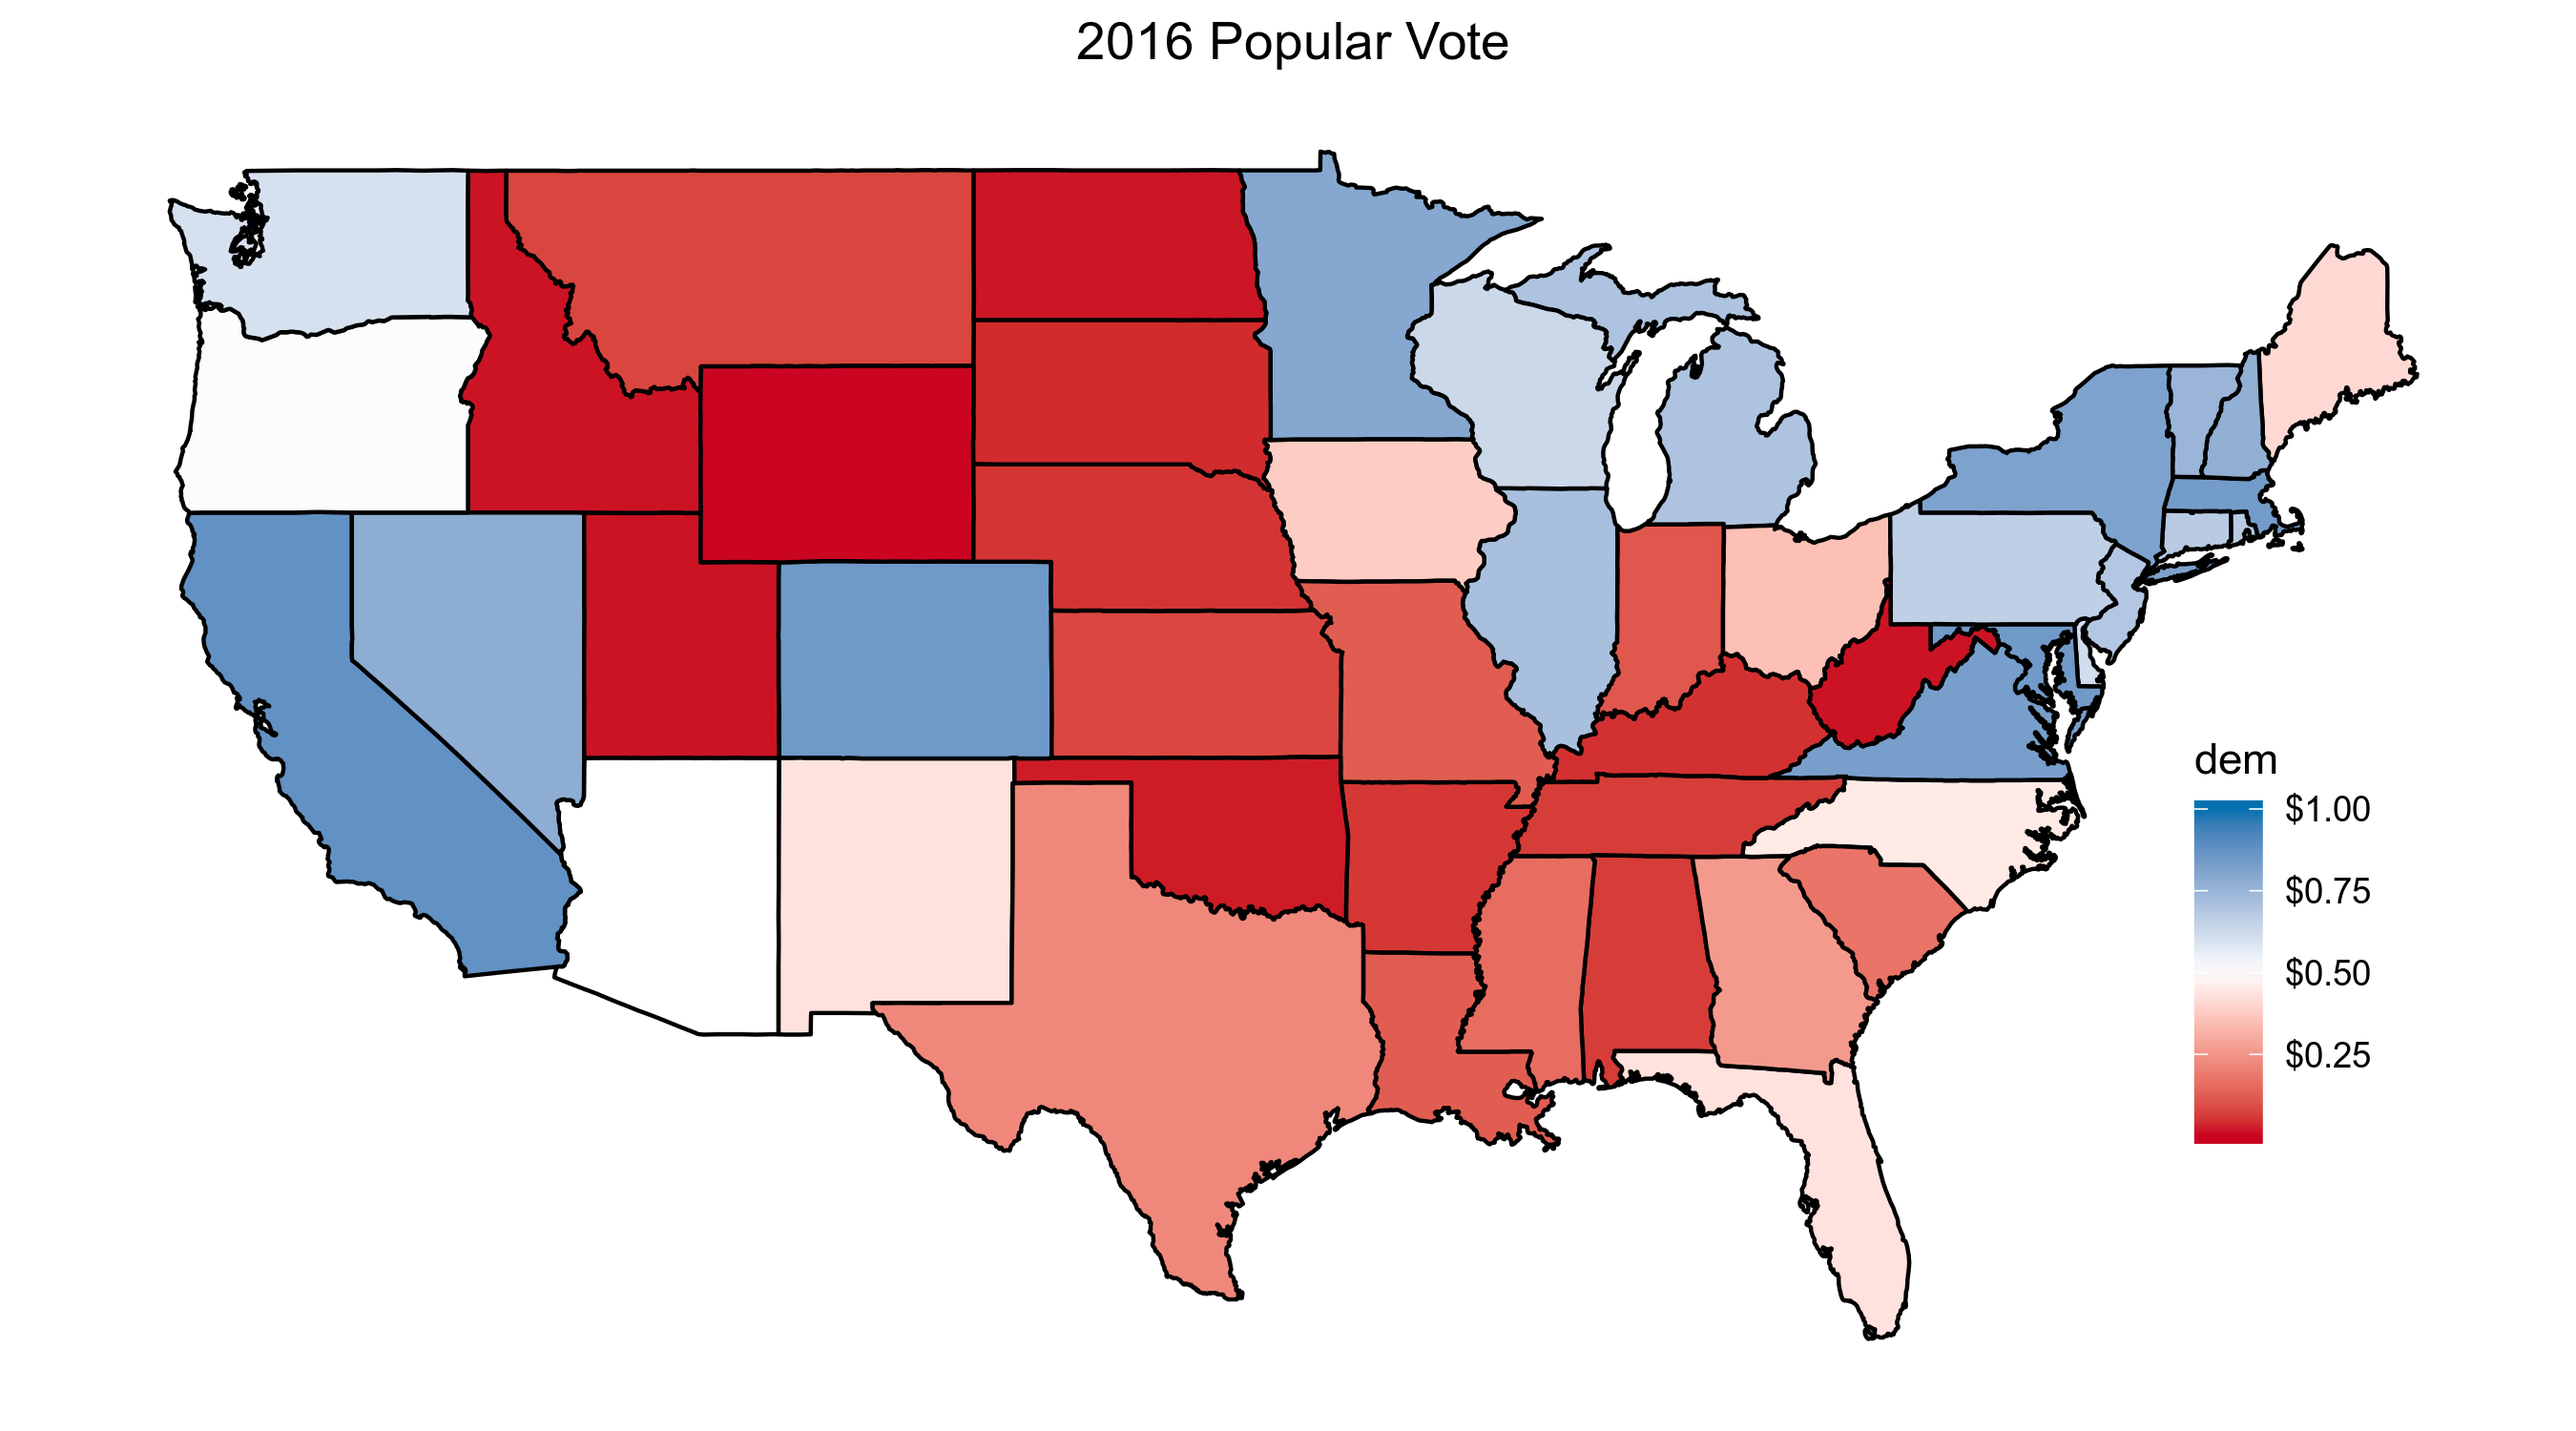
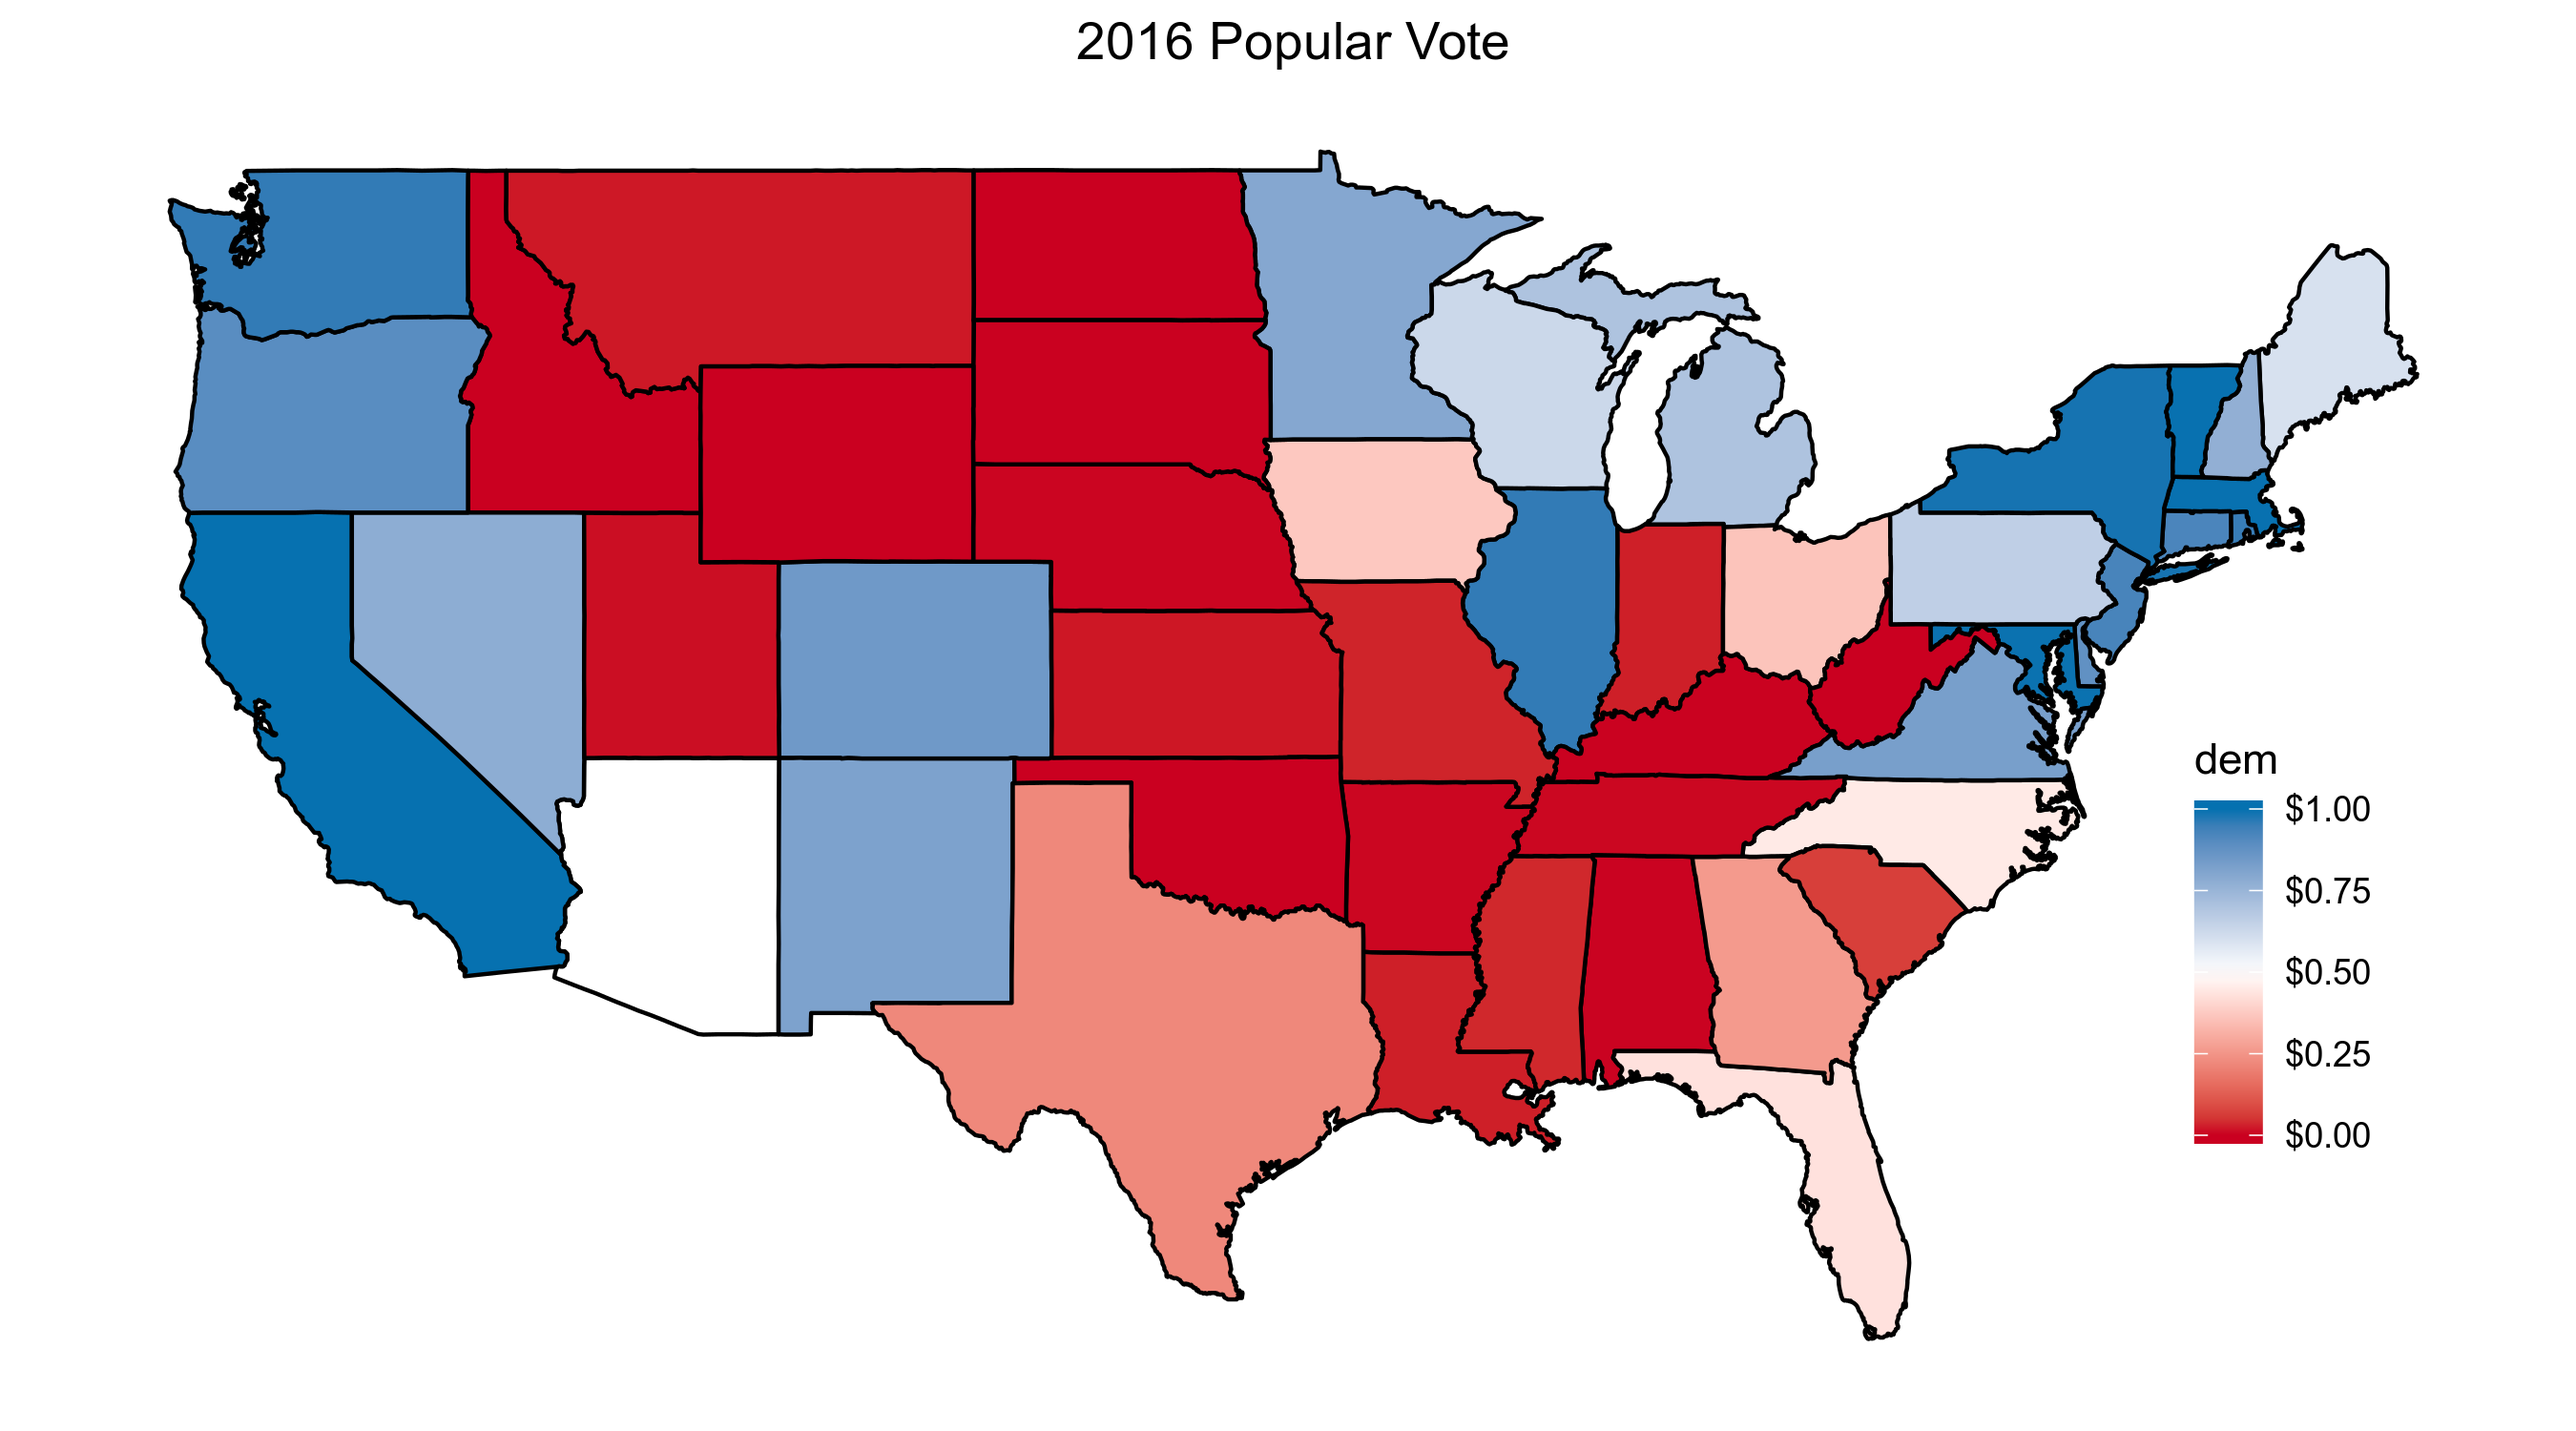
Use dem share and 0.5 standard dev

Changed region(s): [[0.0622, 0.1227, 0.7778, 0.7973], [0.7467, 0.1533, 0.9333, 0.4907], [0.8711, 0.7667, 0.9022, 0.7973]]

diff --git a/docs/sim_ec/sim_college.md b/docs/sim_ec/sim_college.md
@@ -1,6 +1,7 @@
-Simulating 2020 Using Markets
+Simulating the 2020 Election With Markets
 ================
 
+  - [Code](#code)
   - [Market Data](#market-data)
   - [Past Data](#past-data)
   - [Probabilities](#probabilities)
@@ -8,31 +9,64 @@ Simulating 2020 Using Markets
   - [Electoral College](#electoral-college)
 
 Election prediction helps party officials, campaign operatives, and
-journalists interpret campaigns in a quantitative manner. Uncertainty is
-key to a useful election prediction.
-
-The forecast model has become a staple of political punditry.
+journalists interpret campaigns in a quantitative manner. In the past
+few years, the forecasting model has become a staple of political
+punditry as big data has sought to supplant arbitrary punditry.
 Popularized by the data journalist at FiveThirtyEight, the forecasting
 model is a statistical tool used to incorporate a number of quantitative
 inputs and produce a *probabilistic* view of all possible outcomes.
 
+However, following the 2016 Presidential election, the public
+([wrongly](http://53eig.ht/2fIYJK2)) felt betrayed by promise of data to
+predict the future. This left political scientists and journalists alike
+reassessing other predictive tools. My favorite of these alternatives is
+the prediction market.
+
 Prediction markets can be used to generate similarly probabilistic views
 of election outcomes by utilizing the economic forces of price discovery
 and risk aversion to overcome the ideological bias of self-interested
-traders on a binary options exchange.
+traders on a binary options exchange. Traders use real money to buy
+shares of [futures
+contracts](https://en.wikipedia.org/wiki/Futures_contract) tied to an
+outcome. The price of these shares fluctuates on the market as the
+underlying *likelihood* of that outcome changes.
+[PredictIt](https://www.predictit.org/) is an exchange for such
+contracts, run by Victoria University of Wellington.
 
-Can we possibly use these prediction markets to generate a useful
-probabilistic simulation of the electoral college? We’ll try and use
-data from the PredictIt exchange and R code to answer this question.
+Following the 2018 Midterm elections, [I wrote a
+paper](https://github.com/kiernann/models-markets) comparing these
+markets to the congressional model published by the data journalists at
+FiveThirtyEight. I found no statistical difference in the two method’s
+ability to make [skilled
+predictions](https://en.wikipedia.org/wiki/Brier_score) over the course
+of the Midterm elections. In fact, the markets showed reasonable
+skepticism in a number of upset elections.
+
+![](https://raw.githubusercontent.com/kiernann/models-markets/master/plots/plot_cartesian.png)
+
+With the 2020 Presidential race well under way, the media, voters,
+campaigns, and political scientists alike are all looking for the best
+way to provide useful predictions and avoid the pitfalls of 2016. This
+far from the General Election, what little polling we have [is less than
+useless](https://53eig.ht/2IFHxVW). In the absense of more quantitative
+data, can we possibly use prediction markets to generate a useful
+probabilistic simulation of the electoral college? today I’ll try and
+use data from the PredictIt exchange to answer this question.
+
+## Code
+
+I’ll be using the open source [language R](https://www.r-project.org/)
+and packages from the [Tidyverse ecosystem](https://www.tidyverse.org/).
 
 ``` r
 if (!require("pacman")) install.packages("pacman")
 pacman::p_load_current_gh("kiernann/campfin")
 pacman::p_load(
   tidyverse,
-  jsonlite,
   magrittr,
+  jsonlite,
   janitor,
+  scales,
   rvest,
   usmap
 )
@@ -45,7 +79,7 @@ We can scrape these markets using their API and the
 `jsonlite::fromJSON()` function.
 
 ``` r
-markets_prices <-
+market_prices <-
   fromJSON(txt = "https://www.predictit.org/api/marketdata/all/") %>%
   use_series(markets) %>%
   filter(str_detect(name, "Which party will win (.*) in the 2020 presidential election?")) %>%
@@ -75,26 +109,33 @@ electoral college votes up for grab in each state.
 
 ``` r
 past_results <-
+  # scrape table
   read_html("https://en.wikipedia.org/wiki/2016_United_States_presidential_election") %>%
   html_node("table.wikitable:nth-child(1)") %>%
   html_table(fill = TRUE) %>%
   na_if("–") %>%
   as_tibble(.name_repair = "unique") %>%
-  select(1, 4, 5, 8) %>%
+  # select columns and rows
+  select(1, 3, 5, 6, 8) %>%
   slice(-1, -58, -59) %>%
-  set_names(c("state", "dem", "dem_votes", "rep_votes")) %>%
-  map_dfc(parse_guess) %>% 
+  set_names(c("state", "dem", "dem_votes", "rep", "rep_votes")) %>%
+  # parse numeric cols
+  map_dfc(parse_guess) %>%
   mutate(
+    # coalesce EC votes won by both
     votes = coalesce(dem_votes, rep_votes),
-    dem = parse_double(str_remove(dem, "%"))/100,
+    # calculate the dem share
+    dem_prop = dem/(dem + rep),
+    # abbreviate the state names
     state = state %>% 
       str_remove("\\(at-lg\\)") %>% 
       str_remove(",\\s\\d..$") %>% 
       abrev_state()
   ) %>% 
+  # use mean for ME and NE
   group_by(state) %>% 
   summarize(
-    past = mean(dem),
+    past = mean(dem_prop),
     votes = sum(votes)
   )
 ```
@@ -124,7 +165,7 @@ To make this conversion, we simulate many new election using the 2016
 result. These simulated elections are normally distributed around the
 2016 results with a standard deviation of 0.5 to account for the
 uncertainty that’s developed in the last 3 years. Below you can see the
-results of 1,000 simulated elections in Maryland, which voted 60.3% for
+results of 1,000 simulated elections in Maryland, which voted 64.0% for
 the Democratic candidate in the last election. The area under the curve
 past 50% is the *probability* of a democrat winning again in the next
 election.
@@ -132,7 +173,7 @@ election.
 ![](sim_college_files/figure-gfm/example_range_md-1.png)<!-- -->
 
 Now, lets see the distribution of 1,000 simulated elections in Florida,
-a much closer election with only 47.8% of voters supporting the
+a much closer election with only 49.4% of voters supporting the
 democratic candidate.
 
 ![](sim_college_files/figure-gfm/example_range_fl-1.png)<!-- -->
@@ -143,16 +184,16 @@ by simulating the Connecticut election 30 times.
 
 ``` r
 (ex_past <- past_results$past[past_results$state == "CT"])
-#> [1] 0.5457
+#> [1] 0.5714155
 (ex_sims <- round(x = rnorm(n = 30, mean = ex_past, sd = 0.05), digits = 4))
-#>  [1] 0.6234 0.5126 0.5509 0.5029 0.4792 0.4658 0.5719 0.5901 0.5819 0.5536 0.4721 0.6597 0.6276
-#> [14] 0.5319 0.4987 0.5972 0.5586 0.5693 0.5311 0.5678 0.5069 0.4514 0.5095 0.5266 0.4761 0.6453
-#> [27] 0.5827 0.5462 0.6450 0.5887
+#>  [1] 0.6491 0.5383 0.5766 0.5286 0.5049 0.4915 0.5976 0.6158 0.6076 0.5793 0.4978 0.6854 0.6533
+#> [14] 0.5576 0.5244 0.6229 0.5843 0.5950 0.5569 0.5935 0.5326 0.4771 0.5352 0.5523 0.5018 0.6710
+#> [27] 0.6084 0.5719 0.6707 0.6144
 (ex_wins <- ex_sims > 0.5)
-#>  [1]  TRUE  TRUE  TRUE  TRUE FALSE FALSE  TRUE  TRUE  TRUE  TRUE FALSE  TRUE  TRUE  TRUE FALSE
-#> [16]  TRUE  TRUE  TRUE  TRUE  TRUE  TRUE FALSE  TRUE  TRUE FALSE  TRUE  TRUE  TRUE  TRUE  TRUE
+#>  [1]  TRUE  TRUE  TRUE  TRUE  TRUE FALSE  TRUE  TRUE  TRUE  TRUE FALSE  TRUE  TRUE  TRUE  TRUE
+#> [16]  TRUE  TRUE  TRUE  TRUE  TRUE  TRUE FALSE  TRUE  TRUE  TRUE  TRUE  TRUE  TRUE  TRUE  TRUE
 mean(ex_wins)
-#> [1] 0.8
+#> [1] 0.9
 ```
 
 We can perform such random normal simulations for *every* state. We’ll
@@ -162,7 +203,7 @@ simulated elections where the democrat won.
 ``` r
 past_results <- mutate(past_results, prob = NA)
 for (i in seq_along(past_results$state)) {
-  sims <- rnorm(n = 10000, mean = past_results$past[i], sd = 0.10)
+  sims <- rnorm(n = 10000, mean = past_results$past[i], sd = 0.05)
   past_results$prob[i] <- mean(sims > 0.5)
 }
 ```
@@ -188,7 +229,7 @@ these market prices over our simulated elections where we have them.
 
 ``` r
 ec <- past_results %>% 
-  left_join(markets_prices, by = "state") %>% 
+  left_join(market_prices, by = "state") %>% 
   mutate(
     dem = coalesce(price, prob),
     market = !is.na(price)
@@ -224,7 +265,7 @@ the number of electoral college votes won by each party.
 ``` r
 sim1 <- map_lgl(ec$dem, sim_race)
 sum(ec$votes[sim1])
-#> [1] 223
+#> [1] 256
 ```
 
 ``` r
@@ -235,8 +276,10 @@ sim1_result <- if_else(
 )
 ```
 
-In the above election . To best understand the *range* of possible
-outcomes, we will perform the same simulation 10,000 times.
+In the above election, .
+
+To best understand the *range* of possible outcomes, we can perform the
+same simulation many times.
 
 ``` r
 n <- 10000
@@ -248,16 +291,17 @@ for (i in seq(1, n)) {
 }
 ```
 
+From the summary below, you can see a picture of a very close race with
+the Democrats holding a slight lead. Of our 10,000 simulations, the
+Democrats won 75.7% with the modal outcome being a victory of 281
+electoral college votes.
+
 ``` r
-ggplot(data = NULL) +
-  geom_histogram(mapping = aes(x = sims, fill = sims > 270)) +
-  geom_vline(xintercept = 270, size = 1) +
-  scale_fill_manual(values = RColorBrewer::brewer.pal(8, "RdBu")[c(1, 8)], guide = FALSE) +
-  labs(
-    title = sprintf("%s Simulated Electoral College Outcomes", scales::comma(n)),
-    x = "Simulated Democratic Votes",
-    y = "Number of Simulations"
-  ) 
+summary(sims)
+#>    Min. 1st Qu.  Median    Mean 3rd Qu.    Max. 
+#>   193.0   270.0   290.0   291.4   312.0   405.0
+mean(sims > 269)
+#> [1] 0.757
 ```
 
-![](sim_college_files/figure-gfm/unnamed-chunk-4-1.png)<!-- -->
+![](sim_college_files/figure-gfm/sim_hist-1.png)<!-- -->
